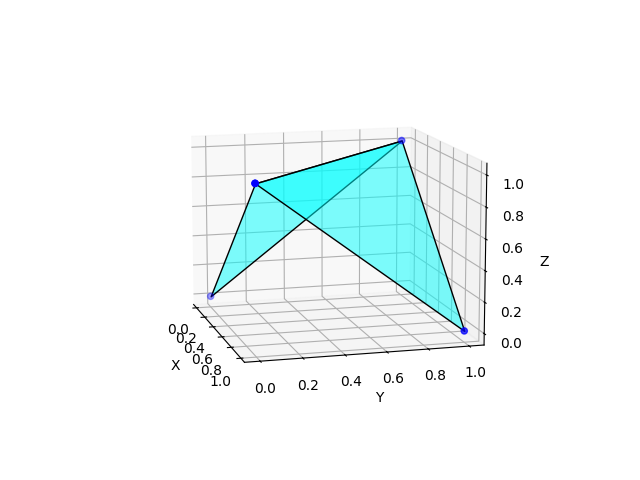
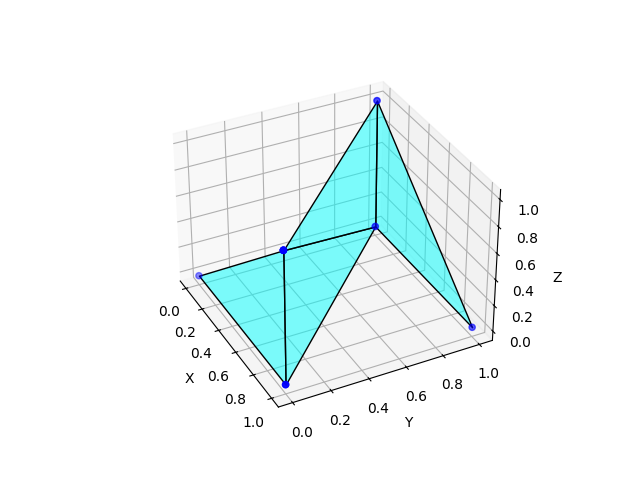
feat: done

diff --git a/viz_gen/mcv.py b/viz_gen/mcv.py
@@ -1,6 +1,6 @@
 import matplotlib.pyplot as plt
 import numpy as np
-from mpl_toolkits.mplot3d import Axes3D
+from mpl_toolkits.mplot3d.art3d import Poly3DCollection
 import sys
 
 if len(sys.argv) != 2:
@@ -31,6 +31,30 @@ for edge in edges:
   ax.plot(edge_points[:, 0], edge_points[:, 1], edge_points[:, 2], color='black')
 
 ax.scatter(points[:, 0], points[:, 1], points[:, 2], color='b')
+
+triangles = []
+edge_dict = {}
+for edge in edges:
+  p1, p2 = edge
+  if p1 not in edge_dict:
+    edge_dict[p1] = set()
+  if p2 not in edge_dict:
+    edge_dict[p2] = set()
+  edge_dict[p1].add(p2)
+  edge_dict[p2].add(p1)
+
+for p1 in edge_dict:
+  for p2 in edge_dict[p1]:
+    for p3 in edge_dict[p2]:
+      if p3 in edge_dict[p1] and p1 != p2 and p2 != p3 and p1 != p3:
+        triangle = sorted([p1, p2, p3])
+        if triangle not in triangles:
+          triangles.append(triangle)
+
+for triangle in triangles:
+  vertices = np.array(triangle)
+  poly = Poly3DCollection([vertices], edgecolor='black', facecolors='cyan', alpha=0.5)
+  ax.add_collection3d(poly)
 
 ax.set_xlabel('X')
 ax.set_ylabel('Y')
